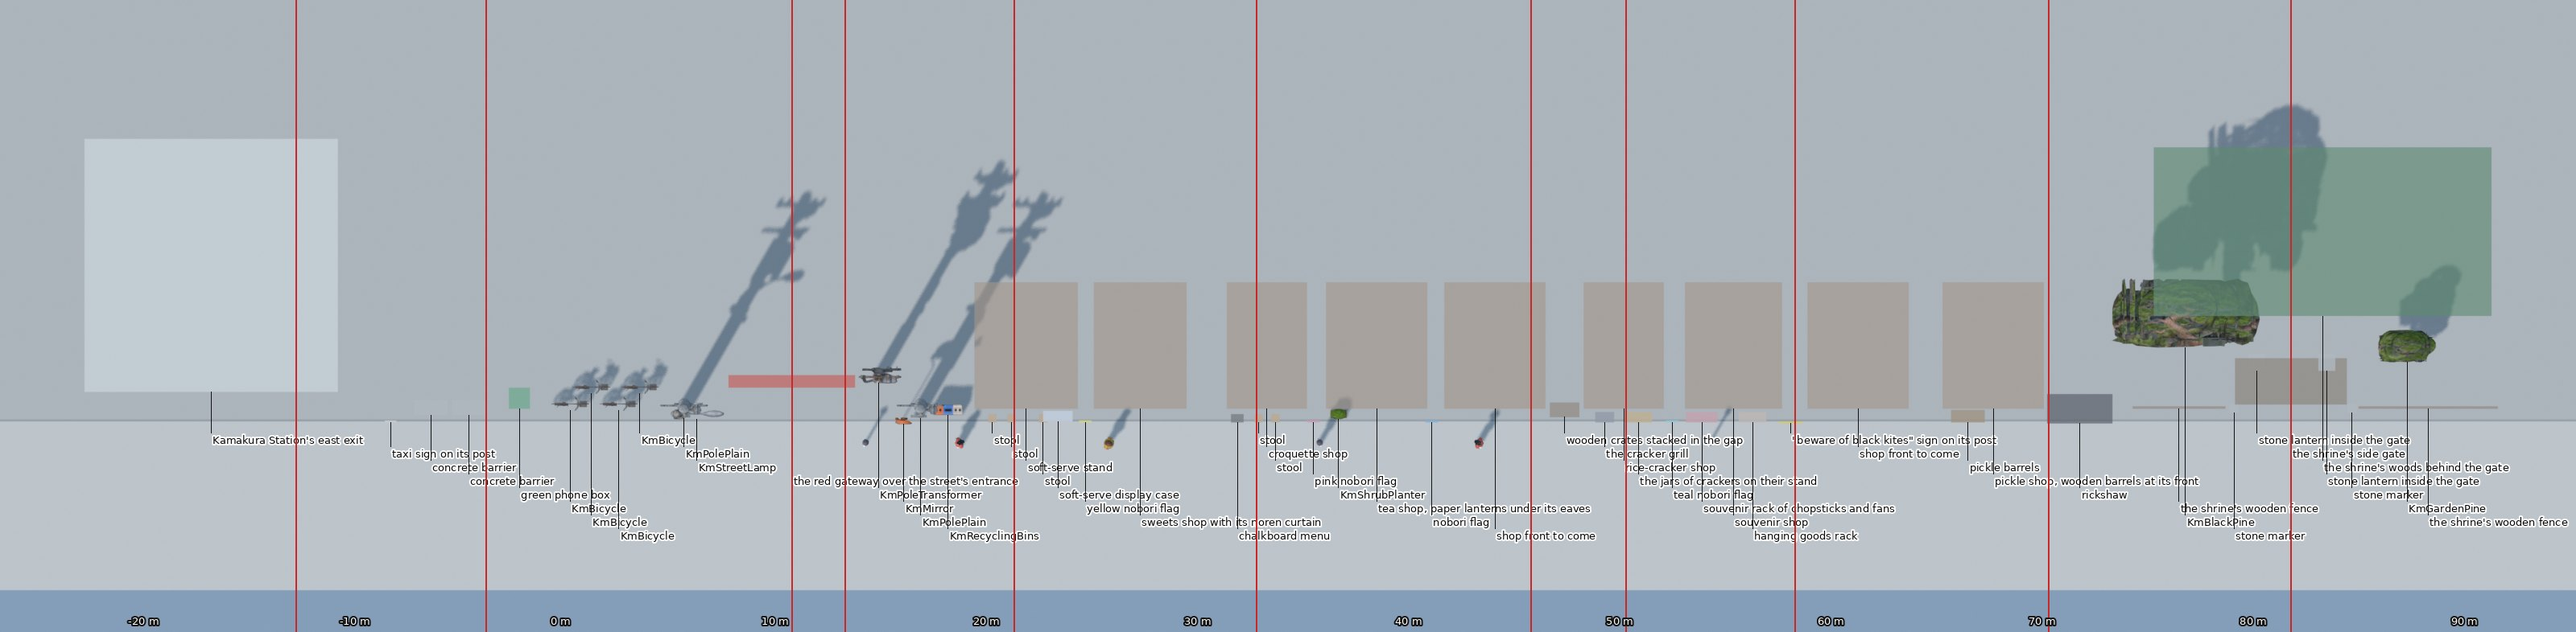
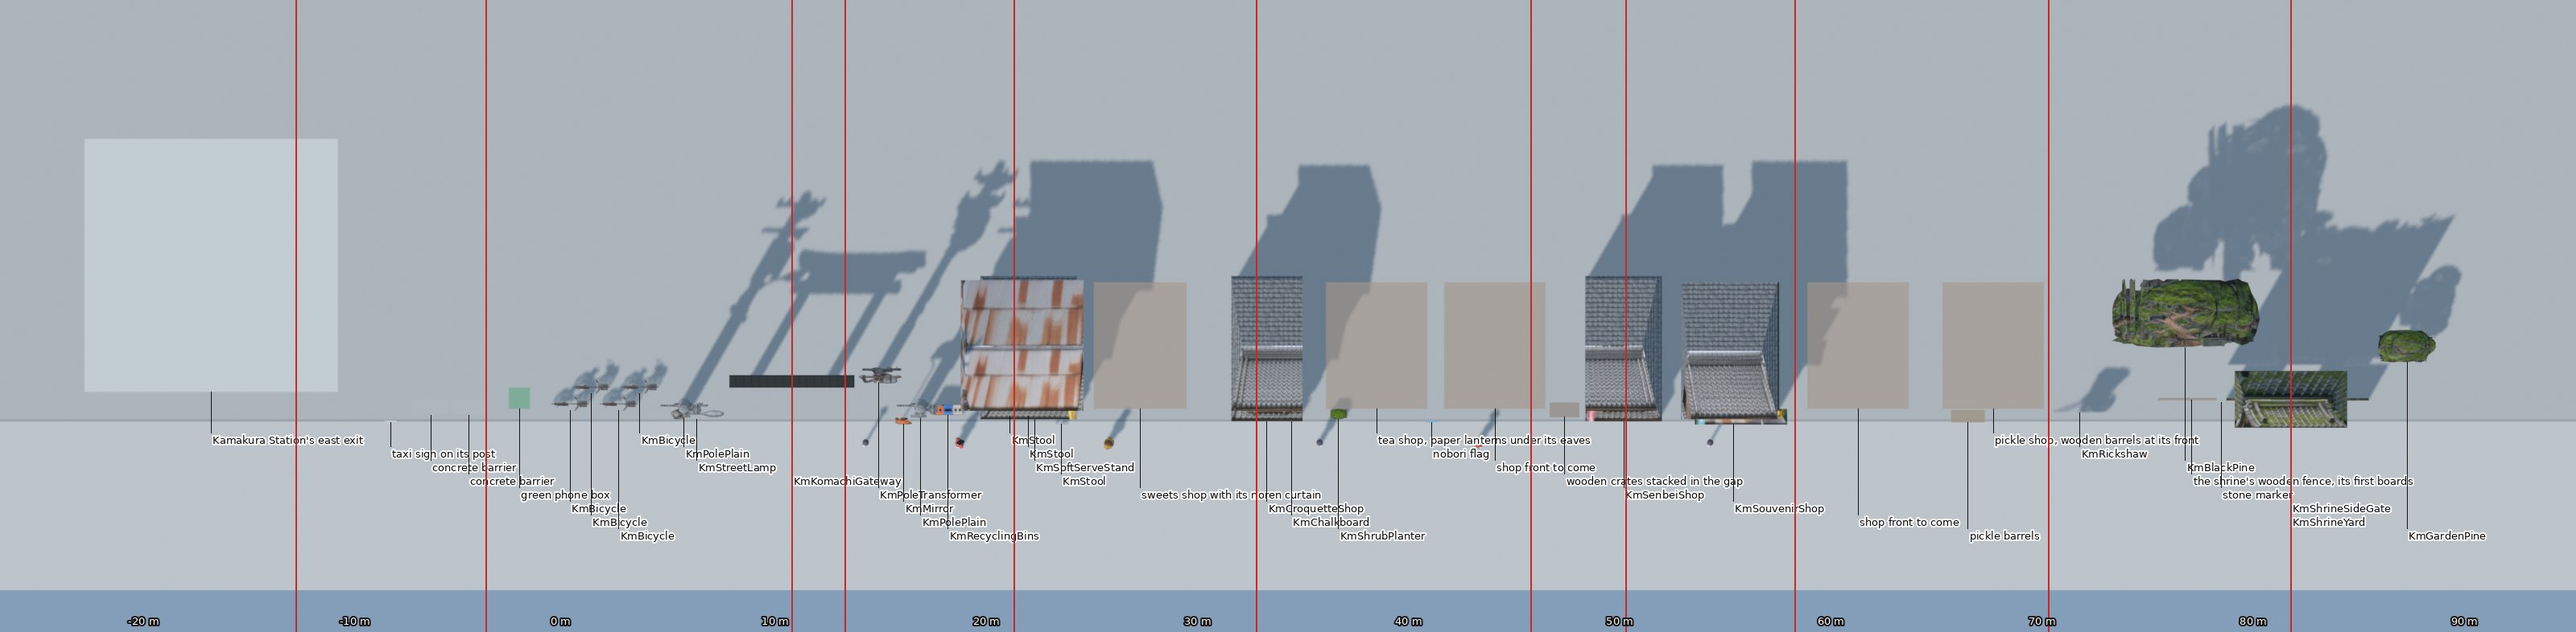
KM1-3's board with its set pieces in place
The layout rendered through the game camera with the gateway, shops, side gate, yard and cut-outs built from the
picture in place of their boxes; the two stools hidden in the croquette counter taken out; a note that the shrine's
fence and woods end where the picture does until KM1-3e comes.

Claude-Session: https://claude.ai/code/session_015hMH1BRkR7V2UbVhP5LJ56

Changed region(s): [[0.2812, 0.2137, 1.0, 0.855]]

diff --git a/review/kamakura/levels/KM1-3/index.html b/review/kamakura/levels/KM1-3/index.html
@@ -38,7 +38,7 @@ li ul { margin: 6px 0; gap: 4px; }
 <header class="stack"><div class="eyebrow">Kamakura · route 1 · leg 3 · proposed layout</div><h1>KM1-3 Komachi-dori</h1>
 <p>The third leg of route 1, from Kamakura Station's east exit (where KM1-2's tram ride ends) up Komachi-dori to the shrine's side gate, laid out from your KM1-3 picture. This is the layout before any level code is written: approve it, or tell me what to move, and its set pieces are built next.</p>
 <p>About 95 m of street from the exit's door to the gate. The picture's ensemble is about 34 m wide, so it is spread along the street in the order of the five lane pictures (KM1-3a to e), about 20 m each, with the play between them.</p>
-<p>Most of this leg is still to come, so most of it is see-through boxes. The kit already has the bicycles, the poles, the mirror, the street lamp, the bins, a planter and the pines. The gateway, the four shops, the side gate and the props in front of the shops are built next from your picture, as the home was. The shops between them come from the lane pictures.</p>
+<p>The gateway, the four shops, the side gate with the shrine's yard behind it, the stools, the chalkboard and the rickshaw are now built from your picture and stand in place below (their strict review is on its own page). The kit adds the bicycles, the poles, the mirror, the street lamp, the bins, a planter and the pines. The see-through boxes are what is still to come: the station's exit, the taxi sign and the barriers, the phone box, and the shops between the set pieces, which come from the lane pictures.</p>
 </header>
 <section><h2>The picture it comes from</h2><figure class="full"><img src="reference.jpg" alt="KM1-3 Komachi-dori, the reference picture"><figcaption>KM1-3 Komachi-dori, the photographic version: the station square, the red gateway, the soft-serve stand, the croquette, rice-cracker and souvenir shops, the kite sign, the rickshaw and the shrine&#x27;s side gate.</figcaption></figure></section>
 <section><h2>Through the game camera</h2><p>Each model at its real size and place, seen through the game camera as the game frames it, the play lane at the front. See-through boxes are what is still to come. The sightseers are the game's grown-up passers-by at their height. The shading is Blender's, not the game's toon look: judge the places, sizes, order and gaps.</p><figure><div class="scroll"><img src="strip.jpg" alt="The layout through the game camera, screen by screen"></div><figcaption>Scroll sideways: each screen is what the camera shows as the kid walks on; the red figure is the kid (1.57 m) with the ball.</figcaption></figure></section>
@@ -63,56 +63,41 @@ li ul { margin: 6px 0; gap: 4px; }
 <tr><td class="x">4.3</td><td>KmBicycle</td><td>the fourth</td></tr>
 <tr><td class="x">6.4</td><td>KmPolePlain</td><td>a plain pole with a street lamp (KM-A26)</td></tr>
 <tr><td class="x">7.0</td><td>KmStreetLamp</td><td>the street lamp on it</td></tr>
+<tr><td class="x">11.5</td><td>KmKomachiGateway</td><td>the red gateway over the street&#x27;s entrance (KM-B08), face-on behind the lane</td></tr>
 <tr><td class="x">15.6</td><td>KmPoleTransformer</td><td>the pole with its transformers, behind (KM1-3)</td></tr>
 <tr><td class="x">16.8</td><td>KmMirror</td><td>the convex mirror on its orange pole at the corner</td></tr>
 <tr><td class="x">17.6</td><td>KmPolePlain</td><td>the concrete pole with its signs</td></tr>
 <tr><td class="x">18.9</td><td>KmRecyclingBins</td><td>the bins at the corner (KM-A20)</td></tr>
+<tr><td class="x">21.8</td><td>KmStool</td><td>a stool at its counter (KM-A32)</td></tr>
+<tr><td class="x">22.7</td><td>KmStool</td><td>a stool</td></tr>
+<tr><td class="x">23.0</td><td>KmSoftServeStand</td><td>the soft-serve stand (KM-B11, first of two): its display case and yellow nobori on its front</td></tr>
+<tr><td class="x">24.2</td><td>KmStool</td><td>a stool in front of the display case</td></tr>
+<tr><td class="x">34.0</td><td>KmCroquetteShop</td><td>the croquette shop (KM-B09)</td></tr>
+<tr><td class="x">35.2</td><td>KmChalkboard</td><td>its chalkboard menu (KM-A32)</td></tr>
 <tr><td class="x">37.4</td><td>KmShrubPlanter</td><td>a planter at the tea shop&#x27;s door</td></tr>
+<tr><td class="x">50.9</td><td>KmSenbeiShop</td><td>the rice-cracker shop (KM-B10): its grill, its jars and the pink nobori on its front</td></tr>
+<tr><td class="x">56.1</td><td>KmSouvenirShop</td><td>the souvenir shop (KM-B11, second of two): its racks, the teal nobori and the kite sign on its front</td></tr>
+<tr><td class="x">72.5</td><td>KmRickshaw</td><td>the rickshaw (KM-V04, a cut-out until its views come)</td></tr>
 <tr><td class="x">77.5</td><td>KmBlackPine</td><td>the big pine over the fence (KM1-3)</td></tr>
+<tr><td class="x">82.5</td><td>KmShrineSideGate</td><td>the shrine&#x27;s side gate and its fence (KM-B12): the stop</td></tr>
+<tr><td class="x">82.5</td><td>KmShrineYard</td><td>the shrine&#x27;s yard behind it: lanterns, a marker, the hall, the trees (a cut-out)</td></tr>
 <tr><td class="x">88.0</td><td>KmGardenPine</td><td>a pine inside the fence</td></tr>
 <tr><td class="x">-16.0</td><td>(to come)</td><td>Kamakura Station&#x27;s east exit (KM1-3a; the stop the leg starts from: the kid comes out of its door at -12)</td></tr>
 <tr><td class="x">-7.5</td><td>(to come)</td><td>taxi sign on its post (KM1-3)</td></tr>
 <tr><td class="x">-5.6</td><td>(to come)</td><td>concrete barrier (KM1-3)</td></tr>
 <tr><td class="x">-3.8</td><td>(to come)</td><td>concrete barrier (KM1-3)</td></tr>
 <tr><td class="x">-1.4</td><td>(to come)</td><td>green phone box (KM-A21)</td></tr>
-<tr><td class="x">11.5</td><td>(to come)</td><td>the red gateway over the street&#x27;s entrance (KM-B08), face-on behind the lane</td></tr>
-<tr><td class="x">21.0</td><td>(to come)</td><td>stool (KM-A32)</td></tr>
-<tr><td class="x">21.9</td><td>(to come)</td><td>stool (KM-A32)</td></tr>
-<tr><td class="x">22.6</td><td>(to come)</td><td>soft-serve stand (KM-B11, first of two): rusty corrugated roof</td></tr>
-<tr><td class="x">23.4</td><td>(to come)</td><td>stool (KM-A32)</td></tr>
-<tr><td class="x">24.1</td><td>(to come)</td><td>soft-serve display case</td></tr>
-<tr><td class="x">25.4</td><td>(to come)</td><td>yellow nobori flag (KM-A31)</td></tr>
 <tr><td class="x">28.0</td><td>(to come)</td><td>sweets shop with its noren curtain (KM1-3b)</td></tr>
-<tr><td class="x">32.6</td><td>(to come)</td><td>chalkboard menu (KM-A32)</td></tr>
-<tr><td class="x">33.6</td><td>(to come)</td><td>stool (KM-A32)</td></tr>
-<tr><td class="x">34.0</td><td>(to come)</td><td>croquette shop (KM-B09)</td></tr>
-<tr><td class="x">34.4</td><td>(to come)</td><td>stool (KM-A32)</td></tr>
-<tr><td class="x">36.2</td><td>(to come)</td><td>pink nobori flag (KM-A31)</td></tr>
 <tr><td class="x">39.2</td><td>(to come)</td><td>tea shop, paper lanterns under its eaves (KM1-3c)</td></tr>
 <tr><td class="x">41.8</td><td>(to come)</td><td>nobori flag (KM-A31)</td></tr>
 <tr><td class="x">44.8</td><td>(to come)</td><td>shop front to come (KM1-3c)</td></tr>
 <tr><td class="x">48.1</td><td>(to come)</td><td>wooden crates stacked in the gap (KM-A34)</td></tr>
-<tr><td class="x">50.0</td><td>(to come)</td><td>the cracker grill</td></tr>
-<tr><td class="x">50.9</td><td>(to come)</td><td>rice-cracker shop (KM-B10): its &quot;senbei&quot; board</td></tr>
-<tr><td class="x">51.6</td><td>(to come)</td><td>the jars of crackers on their stand</td></tr>
-<tr><td class="x">53.2</td><td>(to come)</td><td>teal nobori flag (KM-A31)</td></tr>
-<tr><td class="x">54.6</td><td>(to come)</td><td>souvenir rack of chopsticks and fans (KM-A33)</td></tr>
-<tr><td class="x">56.1</td><td>(to come)</td><td>souvenir shop (KM-B11, second of two): gabled, rusty tin over its door</td></tr>
-<tr><td class="x">57.0</td><td>(to come)</td><td>hanging goods rack (KM-A33)</td></tr>
-<tr><td class="x">58.8</td><td>(to come)</td><td>&quot;beware of black kites&quot; sign on its post (KM-A30)</td></tr>
 <tr><td class="x">62.0</td><td>(to come)</td><td>shop front to come (KM1-3d): the street&#x27;s last shop</td></tr>
 <tr><td class="x">67.2</td><td>(to come)</td><td>pickle barrels</td></tr>
 <tr><td class="x">68.4</td><td>(to come)</td><td>pickle shop, wooden barrels at its front (KM1-3e)</td></tr>
-<tr><td class="x">72.5</td><td>(to come)</td><td>rickshaw (KM-V04): black hood, red seat</td></tr>
-<tr><td class="x">77.2</td><td>(to come)</td><td>the shrine&#x27;s wooden fence (KM1-3)</td></tr>
-<tr><td class="x">79.8</td><td>(to come)</td><td>stone marker (KM1-3)</td></tr>
-<tr><td class="x">80.9</td><td>(to come)</td><td>stone lantern inside the gate (KM1-3)</td></tr>
-<tr><td class="x">82.5</td><td>(to come)</td><td>the shrine&#x27;s side gate (KM-B12): moss on its tiled roof; the stop</td></tr>
-<tr><td class="x">84.0</td><td>(to come)</td><td>the shrine&#x27;s woods behind the gate (trees of the plants kit)</td></tr>
-<tr><td class="x">84.2</td><td>(to come)</td><td>stone lantern inside the gate (KM1-3)</td></tr>
-<tr><td class="x">85.4</td><td>(to come)</td><td>stone marker (KM1-3)</td></tr>
-<tr><td class="x">89.0</td><td>(to come)</td><td>the shrine&#x27;s wooden fence (KM1-3)</td></tr>
+<tr><td class="x">77.8</td><td>(to come)</td><td>the shrine&#x27;s wooden fence, its first boards (KM1-3)</td></tr>
+<tr><td class="x">79.2</td><td>(to come)</td><td>stone marker (KM1-3)</td></tr>
 </tbody></table></div></section>
-<section><h2>Decided for now</h2><ul><li>The <b>red gateway</b> stands face-on behind the lane, as in the picture, not across it. Seen from the side, a gateway over the street would put a 6 m post between the camera and the kid (LEARNINGS E10).</li><li><b>Sizes are the picture's</b>, at about 120 px to the metre at the shop fronts:<ul><li>the shops are 3.8 to 4.9 m wide and 6.2 to 7.2 m tall (the build plan's 6 m width was a guess);</li><li>the side gate is 4.7 m tall and 5.3 m across its roof, its posts 2.8 m apart;</li><li>the rickshaw is 3.1 m long with its shafts.</li></ul>Two signs are made smaller than the picture's. The kite sign is 3 m tall with a 1.1 m board: the picture's stands 4.8 m with a 1.8 m board, across the shop's upper floor. The taxi sign is 3.2 m (3.5 m in the picture).</li><li>The <b>rickshaw</b> moves, as the build plan has it. It pulls out by the pickle shop and jogs on ahead to the gate, and the kid stays behind it. It needs a puller (a grown-up from the game's walkers) and turning wheels. In the picture it stands parked; parked, it would be an obstacle to dribble round, like KM1-1's scooter.</li><li>The <b>sightseers</b> are the game's grown-up passers-by for now, in the original town's clothes. The <b>black kite</b> dives as the game's seagull does (the Animals kit's gull) until the kite (KM-N05) is in the game. The pigeons, the sparrows and the calico cat also wait for Kamakura's animals.</li><li>There is <b>no road</b>: Komachi-dori is a pedestrian street, its pale stone paving across the whole width (KM-T08, still to come).</li><li>Some shops are named in the lane prompts but are not in the picture: the sweets shop, the tea shop, the pickle shop and two more shop fronts. They stay boxes until the lane pictures come.</li><li><b>Cost (est., docs/PERFORMANCE.md):</b><ul><li>The kit's 13 models: about 21,000 triangles and about 18 MB of textures, 11 of it the two pines.</li><li>The buildings, projection-modelled as the home was: a few hundred triangles each, one 4096 x 2048 atlas per picture (about 5.6 MB each in ETC2).</li><li>The props: about 1,500 triangles each.</li><li>The rickshaw: about 4,000 triangles.</li></ul>In all, about 45,000 triangles standing (the walkers on top, 14,000 each, two or three on a screen) and about 60 to 65 MB of textures, near KM1-1's 75 MB. It is to come down with KM1-1's cuts (cropped atlases, smaller textures for what stands back).</li></ul></section>
+<section><h2>Decided for now</h2><ul><li>The <b>red gateway</b> stands face-on behind the lane, as in the picture, not across it. Seen from the side, a gateway over the street would put a 6 m post between the camera and the kid (LEARNINGS E10).</li><li><b>Sizes are the picture's</b>, at about 120 px to the metre at the shop fronts:<ul><li>the shops are 3.4 to 5.8 m wide with their roofs and 6.4 to 6.9 m tall (the build plan's 6 m width was a guess);</li><li>the side gate is 4.75 m tall and 5.3 m across its roof, its posts 2.7 m apart;</li><li>the rickshaw is 2.7 m long with its shafts.</li></ul>The nobori flags and the kite sign stay on the shop fronts they hang against, at the picture's size, until their own views come (KM-A30, A31). The taxi sign's box is 3.2 m (3.5 m in the picture).</li><li>The croquette and rice-cracker shops share one building and one roof in the picture. They are built as two, parted just left of the pink flag (so the flag stays whole on the rice-cracker shop), so that the lane pictures can put the tea shop between them.</li><li>The <b>stools, the chalkboard and the rickshaw</b> are flat cut-outs from the picture until their own views come (KM-A32, KM-V04). Under the rickshaw's hood the fence showed through its struts, so that area is darkened as the hood's shade.</li><li>The <b>rickshaw</b> moves, as the build plan has it. It pulls out by the pickle shop and jogs on ahead to the gate, and the kid stays behind it. It needs a puller (a grown-up from the game's walkers) and turning wheels. In the picture it stands parked; parked, it would be an obstacle to dribble round, like KM1-1's scooter.</li><li>The <b>sightseers</b> are the game's grown-up passers-by for now, in the original town's clothes. The <b>black kite</b> dives as the game's seagull does (the Animals kit's gull) until the kite (KM-N05) is in the game. The pigeons, the sparrows and the calico cat also wait for Kamakura's animals.</li><li>There is <b>no road</b>: Komachi-dori is a pedestrian street, its pale stone paving across the whole width (KM-T08, still to come).</li><li>Some shops are named in the lane prompts but are not in the picture: the sweets shop, the tea shop, the pickle shop and two more shop fronts. They stay boxes until the lane pictures come.</li><li>Past the gate, the shrine's fence and woods end where the picture ends (x 86): from the stop the screen shows about 5 m beyond it. They carry on from KM1-3e when it comes, or from the plants kit's trees and a longer fence if you'd rather not wait.</li><li><b>Cost (est., docs/PERFORMANCE.md):</b><ul><li>The ten set pieces built from the picture: 520 triangles in all (the gateway 200, each shop 54 to 62), one shared 4096 x 2048 texture, 54 % filled (about 11 MB with mips in ETC2 with its cut-outs' alpha, about 5 MB in ASTC 6x6).</li><li>The kit's 13 models: about 21,000 triangles and about 18 MB of textures, 11 MB of it the two pines.</li><li>The shops still to come from the lane pictures: about another texture like this one.</li></ul>In all, about 22,000 triangles standing (the walkers on top, 14,000 each, two or three on a screen) and about 40 to 50 MB of textures, under KM1-1's 75 MB. Splitting the cut-outs into a small texture of their own would leave the buildings' texture without alpha (about 5.6 MB in ETC2).</li></ul></section>
 <section class="ask"><h2>For you</h2><ul><li><b>The lane pictures:</b> KM1-3a to e are on the city prompts page, and none has arrived yet. Save them in review/kamakura/refs/photo under the names on their cards, and the shops between the set pieces are built from them. Until then, the gateway, the four shops, the side gate and the props are built from the photographic KM1-3.</li><li><b>The rickshaw:</b> should it jog ahead of the kid (as now), or stand parked to dribble round?</li><li><b>Anything to move:</b> a place, the order, the length or the play beats.</li></ul></section>
 </div>
